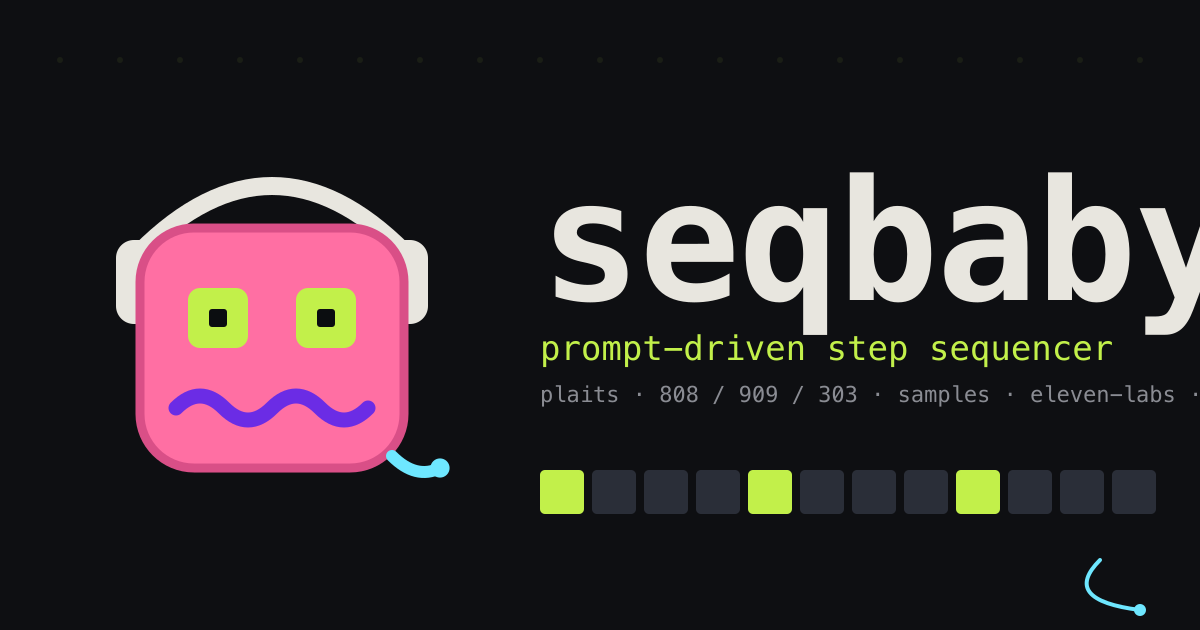
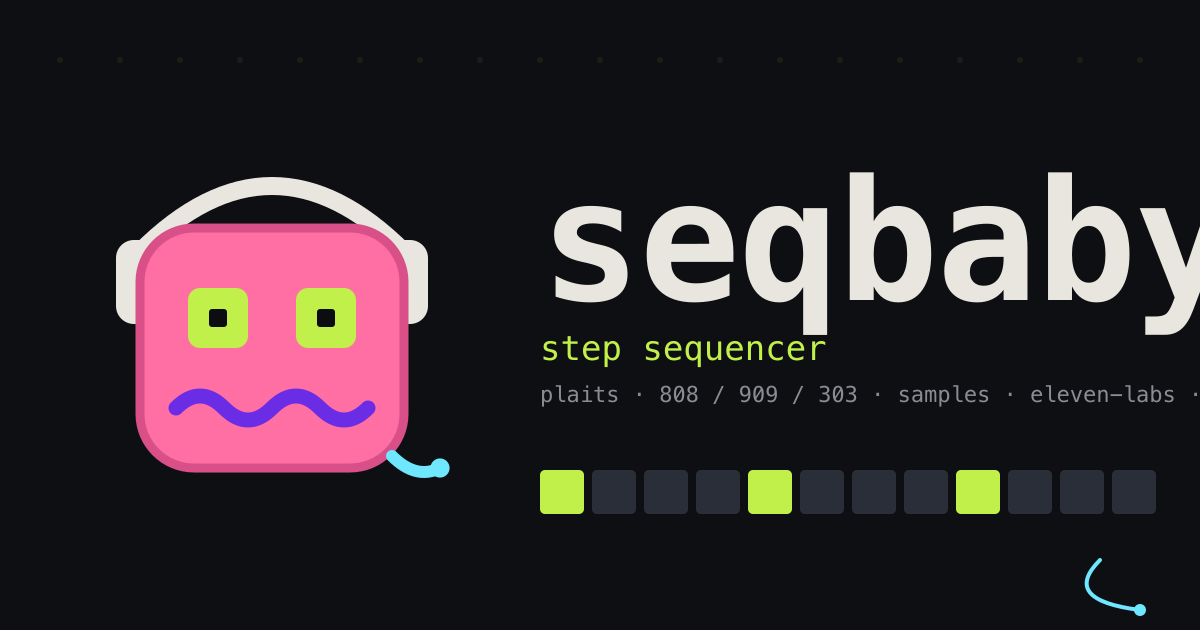
remove prompt-driven branding: drop 'prompted' engines + share card tagline

Changed region(s): [[0.4317, 0.5429, 0.925, 0.573]]

diff --git a/public/app.js b/public/app.js
@@ -237,23 +237,13 @@ const MIDI_ENGINE = {
   defaultNote: 60, poly: true,
 };
 
-const CUSTOM_ENGINE = {
-  key: "custom", label: "prompted tone.js patch", group: "custom", type: "custom",
-  defaultNote: 60, poly: true, melodic: true,
-};
-
-const ELEVEN_ENGINE = {
-  key: "eleven", label: "prompted eleven-labs sample", group: "eleven labs", type: "eleven",
-  defaultNote: 60, poly: true, melodic: true,
-};
-
 const UPLOAD_ENGINE = {
   key: "upload", label: "upload a sample…", group: "user samples", type: "upload",
   defaultNote: 60, poly: true, melodic: true,
 };
 
 function buildEngineCatalog() {
-  return [...plaitsEntries(), ...DRUM_SYNTH_ENGINES, ...ANALOG_ENGINES, CUSTOM_ENGINE, ELEVEN_ENGINE, UPLOAD_ENGINE, ...savedPatchEntries(), ...SAMPLE_ENGINES, MIDI_ENGINE];
+  return [...plaitsEntries(), ...DRUM_SYNTH_ENGINES, ...ANALOG_ENGINES, UPLOAD_ENGINE, ...savedPatchEntries(), ...SAMPLE_ENGINES, MIDI_ENGINE];
 }
 
 let ENGINES = [];
